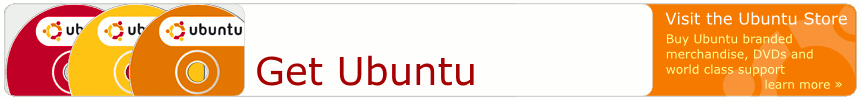
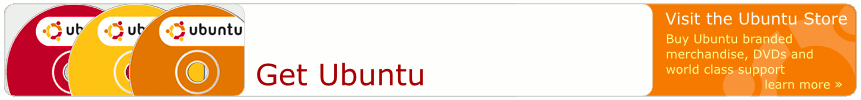
Few changes requested by Jane.

Changed region(s): [[0.2718, 0.54, 0.5738, 0.87]]

diff --git a/lib/canonical/launchpad/icing-ubuntu/style.css b/lib/canonical/launchpad/icing-ubuntu/style.css
@@ -43,8 +43,8 @@ h1, h2, h3, h4, h5, h6 {
 	color: #CC0000;	
 	display: block;
 }
-h1 {font-size:2.5em}
-h2 {font-size:1.8em}
+h1 {font-size:1.8em}
+h2 {font-size:1.6em}
 h3 {font-size:1.3em}
 h4 {font-size:1.1em}
 h5 {font-size:1em}

diff --git a/lib/canonical/launchpad/icing-ubuntu/lp-extra.css b/lib/canonical/launchpad/icing-ubuntu/lp-extra.css
@@ -10,7 +10,6 @@
 }
 .message {
   background: 5px 0.5em no-repeat;
-  font-weight: bold;
   margin: 1em 0 0.5em;
   padding: 0.5em 1em 0.5em 30px; /* 30px because the image has a pixel size */
 }

diff --git a/lib/canonical/launchpad/browser/shipit.py b/lib/canonical/launchpad/browser/shipit.py
@@ -1172,13 +1172,12 @@ class ShipItSurveyView(LaunchpadFormView):
     """A survey that should be answered by people requesting server CDs."""
 
     schema = ShipItSurveySchema
-    label = 'About you'
     custom_widget('environment', LabeledMultiCheckBoxWidget)
     custom_widget('evaluated_uses', CheckBoxMatrixWidget, column_count=3)
     custom_widget('used_in', LabeledMultiCheckBoxWidget)
     custom_widget('interested_in_paid_support', LabeledMultiCheckBoxWidget)
 
-    @action(_("Continue to Request a Free CD"), name="continue")
+    @action(_("Continue to Complete CD Request"), name="continue")
     def continue_action(self, action, data):
         """Continue to the page where the user requests server CDs.
 
